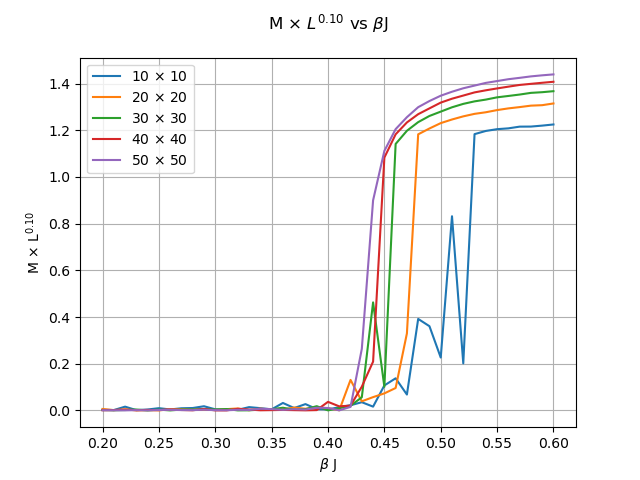
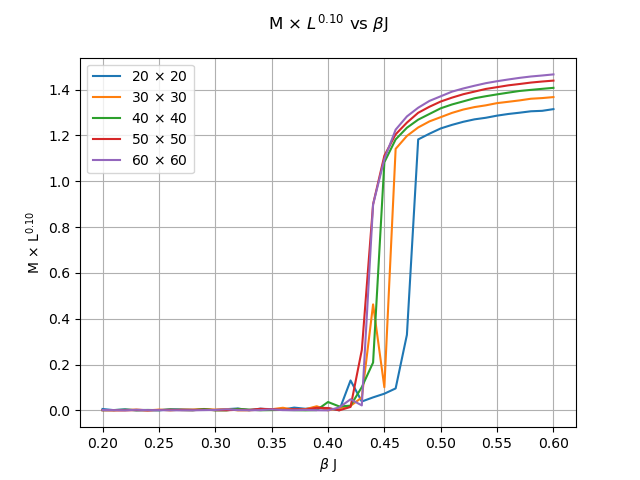
done with 2D Ising numerics, visualization for later

diff --git a/4-Ising/2Dising_modified.py b/4-Ising/2Dising_modified.py
@@ -1,0 +1,116 @@
+# simulating the 2D Ising model
+
+import numpy as np
+import matplotlib.pyplot as plt
+from random import uniform as ran , randint, choice
+from numba import jit
+
+# parameters
+L = int(input())
+vol = L*L
+step_size = 0.01
+N = round((0.6 - 0.2)/step_size)
+betaJ = np.linspace(0.2, 0.6, N+1, dtype=np.float64)  # stores inverse temperature values
+E = np.zeros(N+1, dtype=np.float64)   # stores average energy
+M = np.zeros(N+1, dtype=np.float64)   # stores average magnetisation
+C = np.zeros(N+1, dtype=np.float64)   # stores specific heat
+chi = np.zeros(N+1, dtype=np.float64) # stores susceptibility
+MCsteps = 20000
+n1, n2 = 1/(MCsteps*vol), 1/(MCsteps**2 * vol)
+
+@jit(nopython=True)
+def nbhr(k) :
+    ''' k : index value of 1D array, dirn : 0 or 1 for horizontal and vertical direction esectively 
+    returns the nearest neighbours
+    '''
+    i = k//L
+    j = k%L
+    up = (((i - 1)%L)*L + j)%vol
+    down = (((i + 1)*L) + j)%vol
+    right = (i*L + (j + 1)%L)%vol
+    left = (i*L + (j - 1)%L)%vol
+    
+    return np.array([up, down, right, left])
+
+# initial configuration
+# hot start
+S = np.array([choice([-1, 1]) for k in range(vol)])
+# cold start
+# S = np.ones(N)
+
+@jit(nopython=True)
+def Ising(S, beta, steps) : 
+    for sweep in range(steps) : 
+        for i in range(vol) :
+            k = randint(0, vol-1)
+            h = S[nbhr(k)[0]] + S[nbhr(k)[1]] + S[nbhr(k)[2]] + S[nbhr(k)[3]]
+            dE = 2*h*S[k]
+            boltzmann = np.exp(-beta*dE)
+            if ran(0., 1.) < boltzmann : S[k] = -S[k]
+    return S 
+
+@jit(nopython=True)
+def calcMag(config) :
+    ''' returns magentization for config '''
+    return np.sum(config)
+
+@jit(nopython=True)
+def calcEnergy(config) :
+    ''' returns the energy for config '''
+    H = 0
+    for i in range(vol) :
+        H += config[i]*(config[nbhr(i)[0]] + config[nbhr(i)[1]] + config[nbhr(i)[2]] + config[nbhr(i)[3]])
+    return H
+
+file = open("data_L_modified_{}.txt".format(L), "w")
+for t in range(len(betaJ)) :
+    E1 = E2 = M1 = M2 = 0
+
+    Ising(S, betaJ[t], 10000) # equilibrium steps chosen as 10000
+
+    for i in range(MCsteps) : # count for calculating averages
+        Ising(S, betaJ[t], 200)
+        E1 += calcEnergy(S)
+        E2 += calcEnergy(S)**2
+        M1 += calcMag(S)
+        M2 += calcMag(S)**2
+
+
+    E[t] = n1*E1
+    M[t] = n1*M1
+    C[t] = (n1*E2 - n2*E1*E1)*(betaJ[t]**2)
+    chi[t] = (n1*M2 - n2*M1*M1)*betaJ[t]
+    file.write("% f\t% f\t% f\t% f\t% f\n" % (betaJ[t], E[t], M[t], C[t], chi[t]))
+file.close()
+        
+f = plt.figure(figsize=(12, 9)) # plot the calculated values    
+
+sp =  f.add_subplot(2, 2, 1 )
+plt.scatter(betaJ, E, s=30, marker='o', c='r')
+plt.xlabel(r"$\beta J$", fontsize=15)
+plt.ylabel("Energy ", fontsize=15)
+plt.axis('tight')
+plt.grid(True)
+
+sp =  f.add_subplot(2, 2, 2 )
+plt.scatter(betaJ, abs(M), s=30, marker='o', c='b')
+plt.xlabel(r"$\beta J$", fontsize=15)
+plt.ylabel("Magnetization ", fontsize=15)
+plt.axis('tight')
+plt.grid(True)
+
+sp =  f.add_subplot(2, 2, 3 )
+plt.scatter(betaJ, C, s=30, marker='o', c='g')
+plt.xlabel(r"$\beta J$", fontsize=15)
+plt.ylabel("Specific Heat ", fontsize=15)
+plt.axis('tight')
+plt.grid(True)
+
+sp =  f.add_subplot(2, 2, 4 )
+plt.scatter(betaJ, chi, s=30, marker='o', c='orange')
+plt.xlabel(r"$\beta J$", fontsize=15)
+plt.ylabel("Susceptibility", fontsize=15)  
+plt.axis('tight')
+plt.grid(True)
+
+plt.savefig("L_modified_{}".format(L))

diff --git a/4-Ising/my_code/magnetisation_analysis.py b/4-Ising/my_code/magnetisation_analysis.py
@@ -14,10 +14,10 @@ import matplotlib.pyplot as plt
 #     plt.ylabel(r"M $\times$ L$^{% .2f}$" % x)
 #     plt.savefig("M_times_L/magL_500_x_{p:.2f}.png".format(p=x))
 
-# power = np.linspace(0, 1, 21)
+power = np.linspace(0, 1, 21)
 # for x in power :
 #     plt.clf()
-#     for i in range(10, 51, 10) :
+#     for i in range(20, 61, 10) :
 #         data = np.loadtxt("data_L_modified_{}.txt".format(i))
 #         plt.plot(data[:,0], (i**x)*abs(data[:,2]), label=r"{} $\times$ {}".format(i, i))
 #     plt.legend()
@@ -27,14 +27,38 @@ import matplotlib.pyplot as plt
 #     plt.ylabel(r"M $\times$ L$^{% .2f}$" % x)
 #     plt.savefig("M_times_L/magL_2000_x_{p:.2f}.png".format(p=x))
 
-for v in range(1, 12) :
+for x in power :
     plt.clf()
-    for i in range(30, 61, 10) :
-        data = np.loadtxt("data_L_modified_{}.txt".format(i))
-        plt.plot((i**(1/v))*(data[:,0] - 0.46), abs(data[:,2]), label=r"{} $\times$ {}".format(i, i))
+    for i in range(20, 61, 10) :
+        data = np.loadtxt("my_code/data_L_{}.txt".format(i))
+        plt.plot(i*(np.reciprocal(data[:,0]) - 1/0.46), (i**x)*abs(data[:,2]), label=r"{} $\times$ {}".format(i, i))
     plt.legend()
     plt.grid(True)
-    plt.title(r"M $\times$ $L^0$ vs $L^{1/\, %d}\beta$J" % v + "\n")
-    plt.xlabel(r"$L^{1/%d}\beta$J" % v)
-    plt.ylabel(r"M $\times$ $L^0$")
-    plt.savefig("critical_exponent/critical_exponent_2000_{p:.2f}.png".format(p=v))
+    plt.title(r"M $\times$ $L^{% .2f}$ vs $L^{1/1}(T - T'_c)$" % x + "\n")
+    plt.xlabel(r"$L^{1/1}(T - T'_c)$")
+    plt.ylabel(r"M $\times$ L$^{% .2f}$" % x)
+    plt.savefig("M_times_L/vmagL_500_x_{p:.2f}.png".format(p=x))
+
+for x in power :
+    plt.clf()
+    for i in range(20, 61, 10) :
+        data = np.loadtxt("my_code/data_L_modified_{}.txt".format(i))
+        plt.plot(i*(np.reciprocal(data[:,0]) - 1/0.46), (i**x)*abs(data[:,2]), label=r"{} $\times$ {}".format(i, i))
+    plt.legend()
+    plt.grid(True)
+    plt.title(r"M $\times$ $L^{% .2f}$ vs $L^{1/1}(T - T'_c)$" % x + "\n")
+    plt.xlabel(r"$L^{1/1}(T - T'_c)$")
+    plt.ylabel(r"M $\times$ L$^{% .2f}$" % x)
+    plt.savefig("M_times_L/vmagL_2000_x_{p:.2f}.png".format(p=x))
+
+# for v in range(1, 12) :
+#     plt.clf()
+#     for i in range(30, 61, 10) :
+#         data = np.loadtxt("data_L_modified_{}.txt".format(i))
+#         plt.plot((i**(1/v))*(data[:,0] - 0.46), abs(data[:,2]), label=r"{} $\times$ {}".format(i, i))
+#     plt.legend()
+#     plt.grid(True)
+#     plt.title(r"M $\times$ $L^0$ vs $L^{1/\, %d}\beta$J" % v + "\n")
+#     plt.xlabel(r"$L^{1/%d}\beta$J" % v)
+#     plt.ylabel(r"M $\times$ $L^0$")
+#     plt.savefig("critical_exponent/critical_exponent_2000_{p:.2f}.png".format(p=v))
